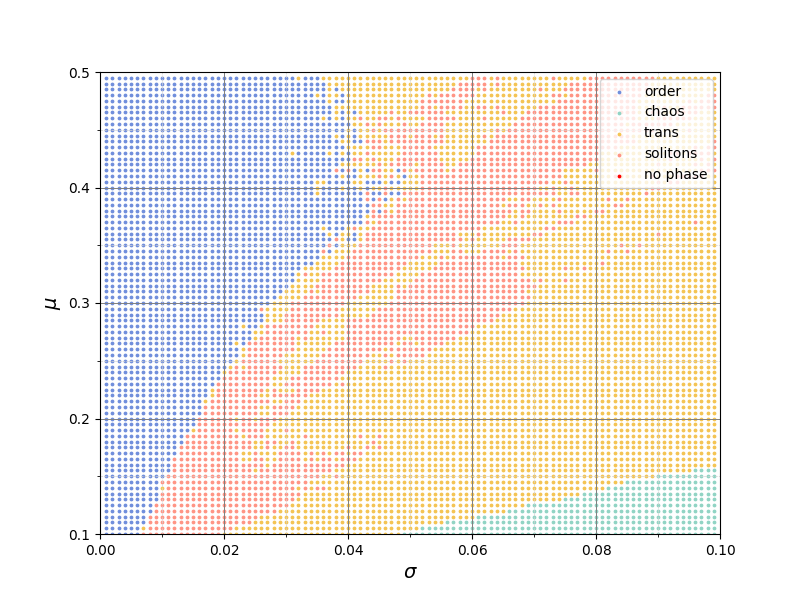
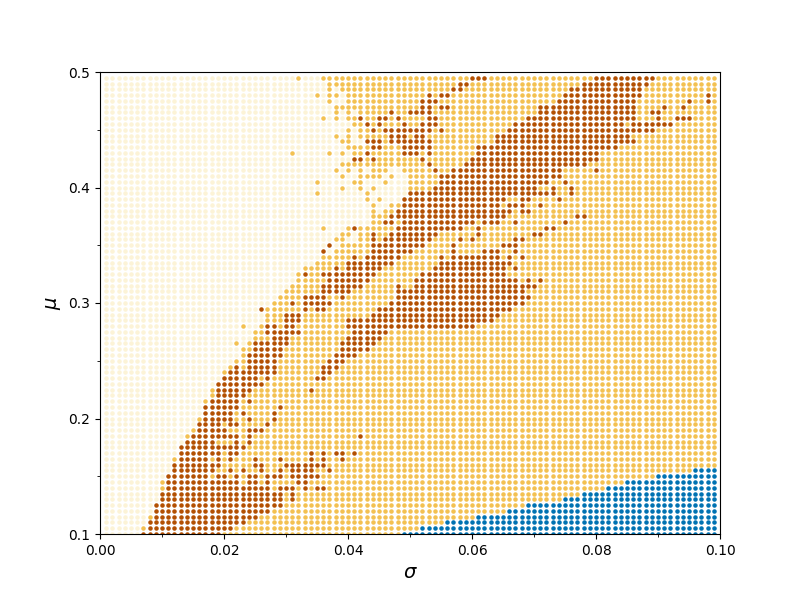
final version 1.3

Changed region(s): [[0.125, 0.12, 0.9062, 0.9]]

diff --git a/read_data.py b/read_data.py
@@ -488,19 +488,19 @@ def profile_time(f, top_time):
     print(s.getvalue())
 
 #============================== PARAMETERS ================================
-array_size = 100
+array_size = 200
 W,H = array_size, array_size # Size of the automaton
 dt = 0.1 # Time step size
 num_channels= 1
 mode = "unif_random_voronoi"
 
 #beta = [1.0, 0.5, 0.4] # Beta values for the kernel
-beta = [1.0]
+beta = [1.0, 0.75, 0.25, 0.75]
 k_mju = [0.5]
 k_sig = [0.15]
 
-func_k = 'exp'
-k_size = 27
+func_k = 'quad4'
+k_size = 57
 
 params = {
     'k_size': k_size, 
@@ -520,7 +520,7 @@ print("folder name: ", folder_name)
 
 
 # PRINT PHASE SPACE FROM DATA FOLDER
-print_graph(folder_name, mju_lim=0.7, sig_lim=0.2, mode=mode, array_size=array_size)
+print_graph(folder_name, mju_lim=0.5, sig_lim=0.1, mode=mode, array_size=array_size)
 
 #path = f'unif_random_voronoi/0.5_0.15_27/data/0.32_0.161.pickle'
 #file = open(path, "rb")
